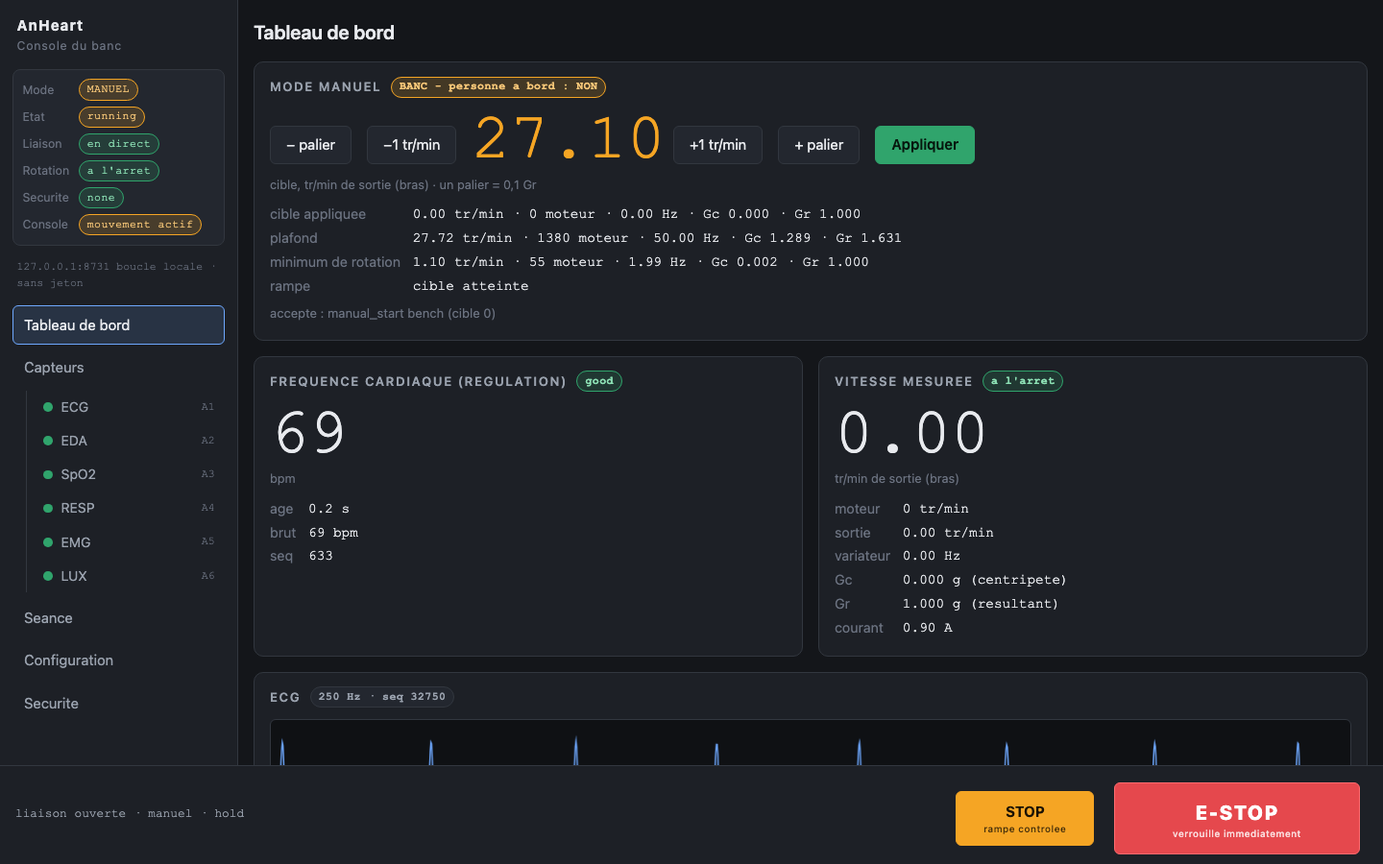
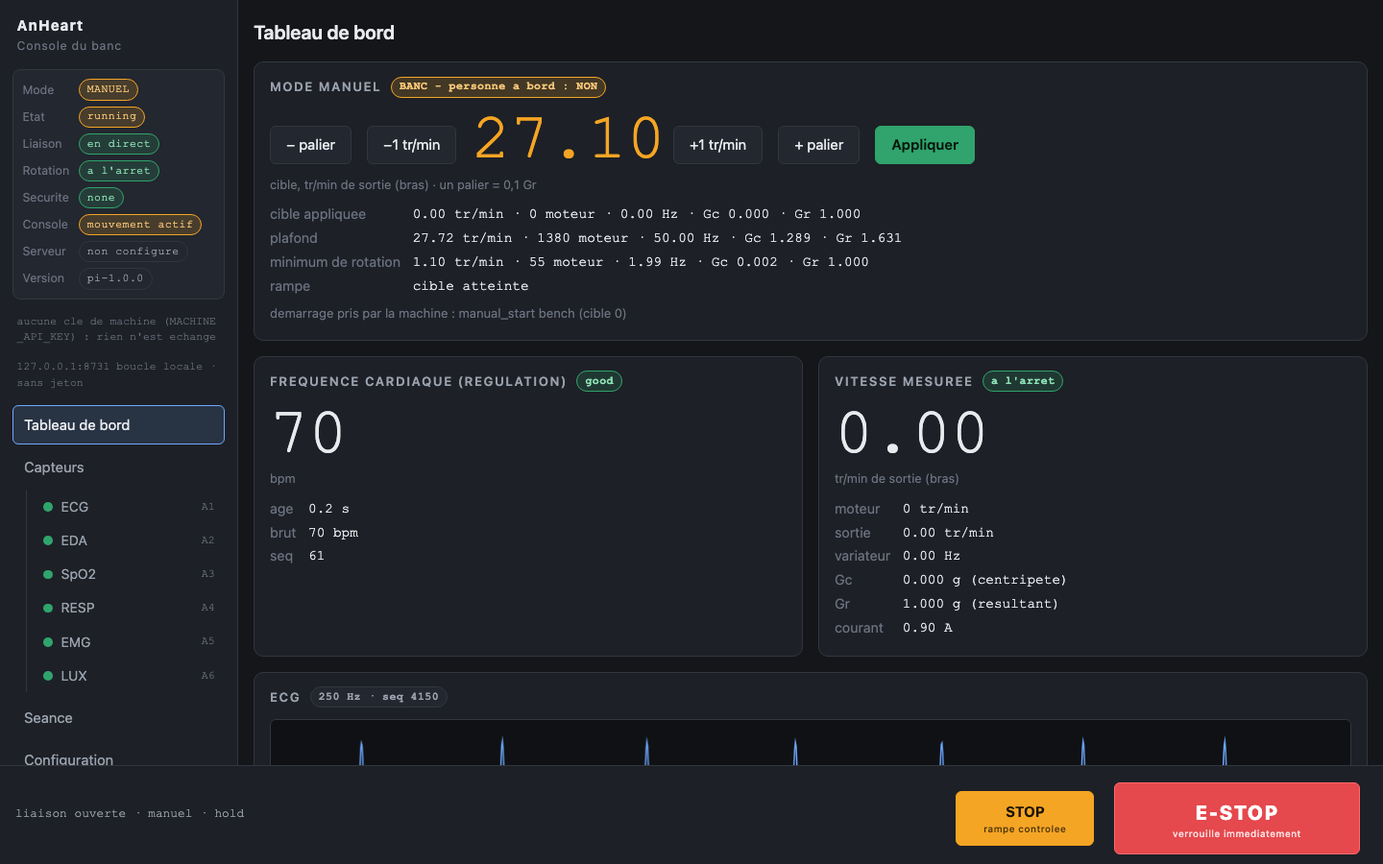
ANH-190: documenter les notes des boutons, et reprendre la capture console-07
docs/console-locale.md, guide de la console et manuel de l'opérateur : les notes des boutons de démarrage et de reset, la note d'une cible, la note sous Acquitter, les lignes verdict retenu et plancher verrouille, le titre de l'onglet d'un capteur, la place du pied de page ; écarts connus remis à jour.

La capture console-07 montrait « accepte : manual_start bench (cible 0) » : reprise avec la commande, le port et la procédure du guide.

diff --git a/docs/console-locale.md b/docs/console-locale.md
@@ -50,6 +50,14 @@ Les limites de sécurité sont dans [securite.md](securite.md).
 > étant retenues ou coupées entre la page et elle ; jamais sur la machine réelle.
 > Le bandeau levé par le statut seul (WebSocket de l'écran coupé, ou aucune image
 > reçue) puis gardé sous `go_silent` l'a été aussi, jusqu'à la console relancée.
+> Les notes des boutons de démarrage et de reset, la note d'une cible après un refus
+> qui n'était pas le sien ou un double clic, la note sous **Acquitter**, les lignes
+> `verdict retenu` et `plancher verrouille`, le titre de l'onglet d'un capteur et la
+> place du pied de page (sections 2, 4, 6, 9, 11 et 15, ajoutés le 10 octobre 2026)
+> ont été rejoués de la même façon. Le refus d'un autre écran y est un événement remis
+> à la page par le rejeu, faute de pouvoir le produire à l'instant voulu ; la phrase
+> sur `REPOS` d'un acquittement repris et la note d'une cible sous une retenue
+> `INCONNUE` ne sont tenues que par les tests de la page.
 > Les pastilles **Serveur** et **Version** (sections 2, 3, 4, 13 et 14, ajoutées le
 > 9 octobre 2026 avec ANH-210) viennent du code et des tests automatiques, sur le lien
 > réel face à un tableau de bord factice et sur la console en simulation ; elles n'ont
@@ -152,7 +160,7 @@ hors ligne (`src/web/static/index.html`, `app.js`, `app.css`). Elle comporte :
 | Bandeaux en haut | Cinq rouges : `NO LIVE DATA`, visible dès que les données ne sont plus fraîches ; `ARRET D'URGENCE NON CONFIRME`, quand une demande E-STOP de cet écran reste sans réponse ou a échoué ; `STOP NON CONFIRME`, de même pour une demande STOP ; `ARRET D'URGENCE VERROUILLE`, tant que la page sait un arrêt d'urgence verrouillé (section 5) ; `CONSOLE HORS SERVICE`, tant que la console se dit hors service (section 4). Un orange : `REPRISE AUTOMATIQUE POSSIBLE`, tant qu'un avertissement non verrouillé tient ou baisse une vitesse qui peut remonter seule (section 11). Ils s'empilent ; la barre latérale et la barre mobile commencent sous eux |
 | Barre latérale (à gauche) | la marque, neuf pastilles (six sur l'état de la machine, puis **Serveur**, **Version** et **Service** sur la console elle-même), la navigation |
 | Zone centrale | une seule page à la fois : Tableau de bord, Capteurs, un capteur, Seance, Configuration, Securite |
-| Pied de page fixe | l'état de la liaison, **STOP** et **E-STOP**, présents sur toutes les pages |
+| Pied de page fixe | l'état de la liaison, **STOP** et **E-STOP**, présents sur toutes les pages. La page et la barre latérale s'arrêtent au-dessus de lui : sa hauteur est mesurée par la page (`--footer-h`), plus déclarée dans la feuille de style |
 
 Sur un écran étroit, la barre latérale se replie derrière un bouton `☰ Menu`. Une barre
 mobile affiche alors le mode, l'état de rotation et l'état du lien avec le tableau de
@@ -432,7 +440,9 @@ navigateur, ni sur un Pi.
 canal `A1`…`A6` et une pastille de couleur selon la qualité), `Seance`, `Configuration`,
 `Securite`. Changer de page ne recharge rien : aucune navigation ne peut figer un nombre.
 Le titre de l'onglet suit la page affichée : `Tableau de bord - AnHeart`,
-`Securite - AnHeart`, et le type du capteur pour la page d'un capteur (`ECG - AnHeart`).
+`Securite - AnHeart`, et le titre de la page pour celle d'un capteur
+(`RESP · Respiration - AnHeart` ; jusqu'au 10 octobre 2026, le type seul :
+`RESP - AnHeart`).
 
 ---
 
@@ -774,9 +784,36 @@ avant tout verdict ; une cible envoyée alors est refusée pour cette raison. Su
 fréquence cardiaque simulée, la raison `baisse trop vite` s'allume et s'éteint d'une
 seconde à l'autre : la garde est sensible ([securite.md](securite.md#76-aucune-cible-manuelle-nattend-sur-un-bras-à-larrêt-anh-178)).
 
-Autres messages sous la carte : `accepte : manual_start bench (cible 0)`, ou l'erreur
-de la réponse HTTP. Le refus d'un **démarrage** manuel par la boucle n'y apparaît pas :
-la note dit encore `accepte : …`, et le refus est dans la liste **Evenements**.
+**La note d'un démarrage manuel suit elle aussi la réponse de la boucle** (depuis le
+10 octobre 2026 ; avant, elle disait `accepte : manual_start bench (cible 0)` dès la
+réponse 202, même pour un démarrage que la boucle refusait ensuite) :
+
+| Note | Sens |
+|---|---|
+| `demande envoyee : manual_start bench - pas encore prise par la machine` | la console a mis la demande dans sa boîte ; la boucle ne l'a pas encore jugée |
+| `demarrage pris par la machine : manual_start bench (cible 0)` | une image prise après la demande montre la séance manuelle. La note s'efface quand la séance n'est plus affichée |
+| `refus de la machine (<heure>) : demarrage refuse : …` (rouge) | la boucle a refusé ; le texte est celui de l'événement `refused` |
+| `demarrage NON pris par la machine : la raison n'est pas arrivee a cet ecran.` (rouge) | une seconde de l'horloge de la machine sans séance ni refus sur cet écran |
+
+Un refus daté après la demande peut répondre à la demande d'un autre écran prise dans
+le même cycle. Si une séance manuelle s'affiche ensuite, la page ne peut pas dire à qui
+elle est : la note s'efface, la carte montre la séance et la liste **Evenements** le
+refus. L'erreur d'une réponse HTTP (403, 409, 412…) s'affiche telle quelle.
+
+Trois précisions sur la note d'une cible, de la même date :
+
+- un refus daté après la cible n'est pas toujours le sien (celui d'un autre écran, ou
+  d'une première cible que la machine reprend pendant qu'une seconde attend). La note
+  dit alors `refus de la machine …`, puis `cible prise par la machine : …` dès qu'une
+  image montre que la machine tient la cible envoyée par cet écran ;
+- un second clic sur **Appliquer** dans le cycle du premier reçoit un 409 de la console
+  (`the machine is running (pending: …); try again in a moment`). La note dit
+  `seconde demande refusee par la console : la cible … attend encore la machine (une demande a la fois). Reessayer dans un instant.`,
+  puis ce que devient la première cible. Un 409 reçu après un cycle (séance terminée,
+  par exemple) s'affiche tel que la console l'a écrit ;
+- avec une personne à bord, quand l'encadré de la fréquence cardiaque dit `INCONNUE`,
+  la note d'une cible plus haute que la consigne ne dit plus
+  `(suivie aux limites de mouvement)` : la page ne sait pas si la montée est retenue.
 
 ### Carte « Frequence cardiaque (regulation) »
 
@@ -820,7 +857,17 @@ Bouton **`Reset defaut variateur`** (visible seulement s'il y a un défaut) :
 sauf si la machine est au repos, que tout autre verdict est acquitté et que le variateur
 montre l'arbre arrêté. Certains défauts ne sont **pas réarmables** depuis la console
 (`reset refuse : defaut OCF non rearmable depuis la console : couper l'alimentation du variateur et inspecter`).
-Message d'accord : `reset demande : fault_reset (le variateur doit le confirmer)`.
+La note sous le bouton suit la réponse de la boucle, comme celle d'un démarrage
+(jusqu'au 10 octobre 2026 : `reset demande : fault_reset (le variateur doit le confirmer)`
+dès la réponse 202, même quand la boucle refusait) :
+`demande envoyee : fault_reset - pas encore prise par la machine` ; puis
+`refus de la machine (<heure>) : reset refuse : …` en rouge, ou
+`le variateur ne signale plus de defaut` dès qu'une image prise après la demande ne
+montre plus de défaut. La note ne dit pas qui a levé le défaut, seulement ce que les
+images montrent ; elle s'efface si un défaut revient. Si le défaut est encore là une
+seconde plus tard sans refus sur cet écran :
+`le variateur signale toujours le defaut. Si la machine a refuse la demande, la raison n'est pas arrivee a cet ecran.`,
+corrigée quand le défaut disparaît.
 
 ### Reprise automatique de la liaison variateur
 
@@ -924,7 +971,7 @@ La séance **programmée** (AUTO), où la fréquence cardiaque pilote la vitesse
 | `Operateur` | obligatoire |
 | `Age du passager (ans, obligatoire)` | une séance programmée refuse un âge inconnu ou inférieur à `MIN_RIDER_AGE` (18 par défaut) |
 | `Previsualiser` | `POST /api/plan/preview` : résout le profil **sans rien démarrer** (fonctionne même pendant une séance). Message : `plan resolu ; rien n'a ete demarre` |
-| `Demarrer la seance` | `POST /api/session/start`. En cas d'accord, la page reste sur Seance |
+| `Demarrer la seance` | `POST /api/session/start`. En cas d'accord (202), la page reste sur Seance et la note sous les boutons suit la réponse de la boucle, comme celle d'un démarrage manuel (section 6) : `demande envoyee : start <profil> - pas encore prise par la machine`, puis `demarrage pris par la machine : start <profil>` quand une image montre le mode `SEANCE`, ou `refus de la machine (<heure>) : demarrage refuse : …` en rouge, ou `demarrage NON pris par la machine : la raison n'est pas arrivee a cet ecran.` après une seconde sans l'un ni l'autre. Jusqu'au 10 octobre 2026 : `accepte : start <profil>` dès le 202 |
 
 Le bouton **Demarrer la seance** est désactivé tant que : l'arrêt d'urgence n'est pas
 attesté, la machine n'est pas `idle`, ou les séances programmées sont désactivées.
@@ -1046,6 +1093,17 @@ Voir la [section 16](#16-lenregistrement-de-séance-boîte-noire-locale).
   verrouillé le plus sévère du superviseur, quelle que soit la règle : défaut variateur,
   fréquence cardiaque, `session_standstill`, caméra…), `regles actives`,
   `accompagnant vu`. Puis la liste des règles actives (`action règle détail [verrouille]`).
+  `/api/status` ne donne que les verdicts du superviseur. Le runtime peut en verrouiller
+  un de lui-même (`drive_precommanded`, `enable_unconfirmed`, son propre `comms_lost`),
+  que ces deux lignes disaient `aucun`. Depuis le 10 octobre 2026, tant que des images
+  arrivent, elles affichent le verdict que portent les images quand il est au moins
+  aussi sévère que celui du statut (pour `plancher verrouille`, seulement s'il est
+  verrouillé). Sans images en direct, elles ne montrent que ce que dit le statut : un
+  verrou propre au runtime y manque alors, et seule la console pourrait l'y mettre.
+  Rejoué dans un navigateur, avec un variateur simulé laissé en marche avant le
+  démarrage de la console : les images portent `drive_precommanded / quick_stop`
+  verrouillé, `/api/status` ne montre aucun verdict ; les deux lignes disaient `aucun`,
+  elles disent `drive_precommanded / quick_stop`, sur Securite et sur Configuration.
 
 Les règles elles-mêmes (identifiants, seuils, actions) sont décrites dans
 [raspberry-pi.md](raspberry-pi.md).
@@ -1227,6 +1285,33 @@ Résultats possibles (vérifiés en simulation) :
 
 Un refus s'affiche sous le bouton et dans une boîte d'alerte `acquittement refuse : …`.
 
+La note sous le bouton parle du moment où elle a été écrite. Depuis le 10 octobre 2026
+la page l'efface ou la corrige quand ce qu'elle reçoit la rend fausse :
+
+- **un nouveau verrou l'efface.** Chaque source dit quelle règle elle montre verrouillée
+  (les images : le verdict en vigueur ; le statut : le plancher du superviseur et son
+  arrêt d'urgence). Une règle qu'aucune ne montrait est un nouveau verrou :
+  `nothing is latched to acknowledge`, ou `acquitte par …`, ne reste plus sous le
+  bouton. Un refus qui parle d'un verrou toujours là (`the emergency stop is still
+  latched…`) reste ;
+- **un acquittement repris est dit.** La console répond 200 dès que les verrous sont
+  effacés ; une règle dont la cause est encore là se verrouille de nouveau au cycle
+  suivant. Quand, dans la seconde qui suit l'acquittement (à l'horloge de la machine),
+  une image montre de nouveau verrouillée une règle qu'il avait effacée, la note
+  devient, en rouge,
+  `acquittement repris par la machine : <règle> est de nouveau verrouille, sa regle s'est declenchee de nouveau.`
+  Pour `session_standstill` et `session_overrun`, tant que le mode n'est pas revenu à
+  `REPOS`, elle ajoute
+  `La seance n'est pas terminee : l'acquittement tiendra une fois Mode revenu a REPOS.`
+  Passé cette seconde, un verrou qui revient est un nouveau verrou : la note s'efface.
+  L'un et l'autre se jugent sur les images. Sans images en direct, la note reste telle
+  qu'elle a été écrite ; seul le statut peut alors l'effacer, pour une règle qu'il
+  montre verrouillée et qu'aucune source ne montrait la dernière fois qu'elle a parlé.
+  Rejoué dans un navigateur avec `drive_fault` au repos (défaut encore présent) : la
+  note `acquitte par banc : drive_fault` restait ; elle passe au rouge 0,1 s après, au
+  plus, sur quatre rejeux. La phrase sur `REPOS` n'est tenue que par les tests de la
+  page.
+
 ### Remise en service d'une console hors service
 
 Sous l'acquittement, et seulement quand la console se dit hors service
@@ -1320,7 +1405,8 @@ Rejoué en simulation, dans cet ordre :
 
 1. **Securite** → cocher les deux cases, saisir un nom, `Enregistrer l'attestation`.
 2. **Tableau de bord** → cocher `BANC - personne a bord : NON`, saisir `Operateur`,
-   `Demarrer MANUEL`. Réponse `accepte : manual_start bench (cible 0)`.
+   `Demarrer MANUEL`. La note dit `demande envoyee : manual_start bench - pas encore prise par la machine`,
+   puis `demarrage pris par la machine : manual_start bench (cible 0)`.
 3. Composer une cible avec `+1 tr/min` ou `+ palier`, puis `Appliquer`. Le bandeau
    `RAMPE EN COURS` s'affiche jusqu'à l'arrivée.
 4. Surveiller **Vitesse mesuree** (pas la consigne).
@@ -1580,17 +1666,17 @@ répondu à temps. Détail dans
   et le bandeau « LECTURE SEULE » de la page existent encore, mais ni l'un ni l'autre ne
   sont atteignables avec `src.local_panel`, qui construit la console avec
   `motion_enabled=True`.
-- Après un démarrage manuel, un démarrage de programme ou un reset de défaut, la note
-  du bouton dit `accepte : …` ou `reset demande : …` dès la réponse 202, même quand la
-  boucle refuse ensuite la demande : hors séance manuelle, ce refus n'apparaît que
-  dans la liste **Evenements** de la page Seance. Pour une cible manuelle, la note suit
-  maintenant la réponse de la boucle (section 6).
 - La phrase anglaise ajoutée aux avertissements non verrouillés (section 11) figure
   encore dans le détail du verdict d'un bras manuel tenu à l'arrêt, où plus rien ne
   peut remonter. Le bandeau `REPRISE AUTOMATIQUE POSSIBLE`, lui, suit la cible.
-- Un acquittement de `session_standstill` (ou de `session_overrun`) donné avant le
-  retour du mode à `REPOS` répond 200 puis est repris, sans que la page dise quand il
-  tiendra (section 11).
+- Un défaut du variateur apparu au repos ne lève aucun verdict avant une tentative de
+  démarrage : le premier démarrage est accepté par la console (202) puis refusé par la
+  boucle. Depuis le 10 octobre 2026 la note du bouton le dit
+  (`refus de la machine … : demarrage refuse : variateur en defaut …`), mais le défaut
+  ne se voit toujours pas dans la pastille **Securite** avant ce clic.
+- `/api/status` ne montre pas un verdict que le runtime a verrouillé de lui-même : les
+  lignes `verdict retenu` et `plancher verrouille` le prennent dans les images tant
+  qu'il en arrive (section 11), et ne l'ont pas sans images en direct.
 - Le bandeau `ARRET D'URGENCE VERROUILLE` garde trois cas, du côté prudent (section 5) :
   un WebSocket tombé sur une image qui montrait un arrêt verrouillé ; un arrêt
   d'urgence posé depuis un autre écran sous `go_silent` ; et le bandeau du `quick_stop`
@@ -1606,10 +1692,15 @@ répondu à temps. Détail dans
   réponses de statut) ; le troisième (console relancée puis `go_silent`) l'est pour
   l'arrêt d'urgence lui-même, et pour le `quick_stop` d'une règle quand le redémarrage
   est prouvé.
-- La note `nothing is latched to acknowledge` reste sous le bouton Acquitter après un
-  nouveau verrou ; l'onglet de la page d'un capteur porte le type seul (`RESP -
-  AnHeart`) alors que la page titre `RESP · Respiration` ; la hauteur du pied de page
-  déclarée dans la feuille de style est plus petite que sa hauteur réelle.
+- Traités le 10 octobre 2026 : les notes des boutons de démarrage et de reset, qui
+  disaient `accepte : …` ou `reset demande : …` avant la réponse de la boucle
+  (sections 6 et 9) ; la note d'une cible après un refus qui n'était pas le sien ou un
+  double clic (section 6) ; la note `nothing is latched to acknowledge` restée après un
+  nouveau verrou, et l'acquittement repris sans que la page le dise (section 11) ;
+  l'onglet de la page d'un capteur, qui porte maintenant le titre de la page
+  (`RESP · Respiration - AnHeart`) ; la place gardée pour le pied de page, mesurée au
+  lieu d'être déclarée (elle valait 88 px pour un pied de page de 103 px, 92 px sur un
+  écran étroit).
 - Ces points relèvent de la page. Ils viennent du ticket
   [ANH-182](https://linear.app/anheart/issue/ANH-182/console-locale-suites-daffichage-apres-anh-124-anh-176-et-anh-178),
   qui a traité la note de la cible manuelle, l'encadré de la fréquence cardiaque, la

diff --git a/docs/guides/guide-console-locale.md b/docs/guides/guide-console-locale.md
@@ -536,7 +536,9 @@ Repères :
    moteur). Entre 0 et ce minimum, rien n'est accepté.
 9. `rampe` : `cible atteinte`, ou `en cours, arrivee ~m:ss`. Pendant un gel `freeze`,
    si la cible n'est ni atteinte ni nulle : `consigne maintenue, cible non atteinte`.
-10. La note sous la grille : dernier message (ici `accepte : manual_start bench (cible 0)`).
+10. La note sous la grille : dernier message (ici
+    `demarrage pris par la machine : manual_start bench (cible 0)` : la machine a
+    démarré la séance manuelle).
 11. Barre latérale : Mode `MANUEL`, Etat `running`.
 
 Règles de la cible :
@@ -920,7 +922,9 @@ Repères :
 1. Pastille verte `atteste`.
 2. Sous le bouton : `atteste par Mohamed a 7:23:00 PM (valable jusqu'au prochain redemarrage du Pi)`.
 3. Sous **Acquitter**, en rouge : `nothing is latched to acknowledge` (un essai
-   d'acquittement alors que rien n'était verrouillé : sans conséquence).
+   d'acquittement alors que rien n'était verrouillé : sans conséquence). Cette note
+   s'efface dès qu'un verdict se verrouille : elle ne reste pas sous le bouton à dire
+   que rien n'est verrouillé.
 
 ### Avec un verdict verrouillé (après un E-STOP)
 
@@ -1184,8 +1188,12 @@ vraie machine, montez ce plafond **par paliers délibérés**, pas d'un coup.
 2. Cliquez **Tableau de bord**.
 3. Cochez **BANC - personne a bord : NON ...**.
 4. Tapez votre nom dans **Operateur**.
-5. Cliquez **Demarrer MANUEL**. La note affiche `accepte : manual_start bench (cible 0)`,
+5. Cliquez **Demarrer MANUEL**. La note affiche
+   `demande envoyee : manual_start bench - pas encore prise par la machine`, puis, une
+   fraction de seconde plus tard, `demarrage pris par la machine : manual_start bench (cible 0)` ;
    le mode passe à `MANUEL`, la pastille de la carte à `BANC - personne a bord : NON`.
+   Si la note passe au rouge (`refus de la machine ...` ou `demarrage NON pris ...`), la
+   séance n'a pas démarré : lisez la raison, et la liste **Evenements** (§14).
 6. Composez la cible : cliquez **+1 tr/min**. Le premier clic saute au minimum
    (1,10) ; chaque clic suivant ajoute 1. Après 27 clics, le brouillon affiche
    `27.10` en orange (capture `console-07-manuel-brouillon.png`).
@@ -1648,7 +1656,11 @@ Pas à pas pour un défaut **réarmable** (constaté avec `ObF`) :
    premier nom trouvé : Operateur du mode manuel, de la page Seance, ou de Securite).
    Sans nom : `an operator name is required ...`.
 4. Cliquez **Reset defaut variateur**. La note dit
-   `reset demande : fault_reset (le variateur doit le confirmer)`.
+   `demande envoyee : fault_reset - pas encore prise par la machine`, puis
+   `le variateur ne signale plus de defaut` quand le défaut a disparu (constaté 0,4 s
+   après le clic, en simulation). En rouge, `refus de la machine (...) : reset refuse : ...`
+   donne la raison d'un refus, et `le variateur signale toujours le defaut. ...` dit
+   qu'une seconde plus tard le défaut est encore là.
 5. Vérifiez que la pastille du variateur quitte `fault` (constaté : `ready`).
 6. Allez dans **Securite** et acquittez le verdict `drive_fault` (§13.6 ; la case du
    coup de poing n'est pas nécessaire ici). Constaté : `acquitte par Mohamed : drive_fault`.
@@ -1893,6 +1905,14 @@ anglais). Ceux marqués ✔ ont été vus pendant la préparation de ce guide.
 | ✔ `refus de la machine (<heure>) : ...` (rouge, carte Mode MANUEL) | la machine a refusé la cible, ou l'a remise à 0 ; la suite du message est celle de la liste Evenements | §13.11 |
 | `cible NON prise par la machine : la cible appliquee est ... La raison n'est pas arrivee a cet ecran.` | une seconde après l'envoi, la machine ne tient pas la cible et cet écran n'a pas reçu la raison | lire Securite, l'encadré orange et la carte Variateur ; renvoyer la cible (§13.11) |
 | `cible NON prise par la machine : la seance manuelle est terminee.` | la séance s'est terminée avant que la cible soit prise | redémarrer une séance |
+| ✔ `seconde demande refusee par la console : la cible ... attend encore la machine (une demande a la fois). Reessayer dans un instant.` (rouge) | double clic sur **Appliquer** : la console n'a qu'une place, et la première cible y attend encore | rien ; la note dit ensuite ce que devient la première cible |
+| ✔ `demande envoyee : ... - pas encore prise par la machine` (démarrage manuel, démarrage de séance, reset) | la console a reçu la demande ; la machine ne l'a pas encore jugée | attendre la suite de la note, une fraction de seconde |
+| ✔ `demarrage pris par la machine : ...` | une donnée reçue après la demande montre la séance démarrée | continuer ; la note s'efface à la fin de la séance |
+| ✔ `refus de la machine (<heure>) : demarrage refuse : ...` ou `reset refuse : ...` (rouge, sous le bouton) | la machine a refusé le démarrage ou le reset ; la suite du message est celle de la liste Evenements | lire la raison dans ce tableau |
+| `demarrage NON pris par la machine : la raison n'est pas arrivee a cet ecran.` (rouge) | une seconde après la demande, aucune séance et aucun refus sur cet écran | lire **Securite**, la carte **Variateur** et la liste Evenements, puis redemander |
+| ✔ `le variateur ne signale plus de defaut` | après un reset, les données ne montrent plus de défaut | acquitter `drive_fault` (§13.9) |
+| `le variateur signale toujours le defaut. Si la machine a refuse la demande, la raison n'est pas arrivee a cet ecran.` (rouge) | une seconde après la demande de reset, le défaut est encore là, sans refus reçu | lire la carte **Variateur** et la liste Evenements |
+| `acquittement repris par la machine : <règle> est de nouveau verrouille, sa regle s'est declenchee de nouveau.` (rouge, sous **Acquitter**) | la console avait répondu 200, et la règle s'est verrouillée de nouveau au cycle suivant | traiter la cause ; pour `session_standstill` et `session_overrun`, la note ajoute que l'acquittement tiendra une fois **Mode** revenu à `REPOS` |
 | ✔ encadré `MONTEE RETENUE PAR LA FREQUENCE CARDIAQUE` | personne à bord : la fréquence cardiaque empêche la vitesse de monter (la raison suit) | §13.11 |
 | encadré `RETENUE PAR LA FREQUENCE CARDIAQUE : INCONNUE` | personne à bord : la page ne reçoit plus cette information de la console | ne rien conclure ; lire la note après l'envoi |
 | ✔ bandeau `REPRISE AUTOMATIQUE POSSIBLE` | un avertissement non verrouillé tient ou baisse la vitesse : elle remontera seule quand il se lèvera | ne pas croire le bras arrêté pour de bon (§11, §15) |
@@ -2141,8 +2161,9 @@ demande de **déclarer** qu'il a été tiré.
 
 **L'onglet du navigateur change de nom.**
 Il porte le nom de la page affichée : `Tableau de bord - AnHeart`,
-`Securite - AnHeart`, etc. « Console du banc », dans la barre latérale, est le nom de
-la console.
+`Securite - AnHeart`, etc., et pour la page d'un capteur le titre de cette page
+(`RESP · Respiration - AnHeart`). « Console du banc », dans la barre latérale, est le
+nom de la console.
 
 ## 16. Ce qui n'est pas testé sur la vraie machine
 
@@ -2208,9 +2229,10 @@ Pour être clair sur ce que ce guide garantit :
 
 ### Annexe : liste des captures
 
-Toutes ces captures datent d'avant le 9 octobre 2026 : leur barre latérale montre six
+Ces captures datent d'avant le 9 octobre 2026 : leur barre latérale montre six
 pastilles, sans **Serveur** ni **Version**, et la barre de la vue mobile deux pastilles
-au lieu de trois. Aucune n'a été reprise depuis.
+au lieu de trois. Une seule a été reprise depuis, `console-07`, le 10 octobre 2026 : sa
+barre latérale montre les huit pastilles.
 
 | Fichier | Ce qu'il montre |
 |---|---|
@@ -2255,7 +2277,11 @@ modifient pas. Les nouveaux éléments de la page (l'encadré de la fréquence c
 les bandeaux `ARRET D'URGENCE NON CONFIRME` et `REPRISE AUTOMATIQUE POSSIBLE`, une note
 de refus) n'ont pas de capture dans ce guide.
 
-Aucune capture n'a été reprise le 10 octobre 2026 : le bandeau `STOP NON CONFIRME` et
-le nouveau texte de `ARRET D'URGENCE NON CONFIRME` n'apparaissent sur aucune, et le
-bandeau `ARRET D'URGENCE VERROUILLE` des captures `console-12`, `console-13` et
-`console-16` garde le même aspect dans les situations qu'elles montrent.
+Une capture a été reprise le 10 octobre 2026, `console-07` : la note sous la carte
+Mode MANUEL y disait `accepte : manual_start bench (cible 0)`, texte que la page
+n'écrit plus. Même nom, mêmes dimensions, même commande et même port, même procédure
+(§13.2, étapes 1 à 6) rejouée en simulation dans un navigateur sans interface. Les
+autres ne changent pas : le bandeau `STOP NON CONFIRME`, le nouveau texte de
+`ARRET D'URGENCE NON CONFIRME` et les autres notes des boutons n'apparaissent sur
+aucune, et le bandeau `ARRET D'URGENCE VERROUILLE` des captures `console-12`,
+`console-13` et `console-16` garde le même aspect dans les situations qu'elles montrent.

diff --git a/docs/client/manuel-operateur.md b/docs/client/manuel-operateur.md
@@ -377,10 +377,12 @@ l'écran.*
   vitesse possible (ligne « minimum de rotation »).
 - La ligne « cible appliquee » dit ce que la machine vise vraiment. Fiez-vous à
   elle, pas au brouillon orange.
-- Une réponse qui commence par « accepte : » ou « cible envoyee : » sous les
-  boutons veut seulement dire que la demande est reçue. La machine vérifie
-  ensuite. Si elle refuse, le refus apparaît dans la liste **Evenements** de la
-  page **Seance**, sur une ligne « refused ».
+- Une réponse qui commence par « demande envoyee : » ou « cible envoyee : »
+  sous les boutons veut seulement dire que la demande est reçue. La machine
+  vérifie ensuite, et la même ligne dit ce qu'elle en a fait : « demarrage pris
+  par la machine » ou « cible prise par la machine », ou bien, en rouge,
+  « refus de la machine » suivi de la raison. Le refus apparaît aussi dans la
+  liste **Evenements** de la page **Seance**, sur une ligne « refused ».
 - Pour changer de vitesse : composez un nouveau brouillon, puis **Appliquer**.
 - Vous pouvez ramener vous-même le bras à l'arrêt en appliquant une cible de
   0. Si **Securite** affiche « none » à ce moment, la séance continue :
